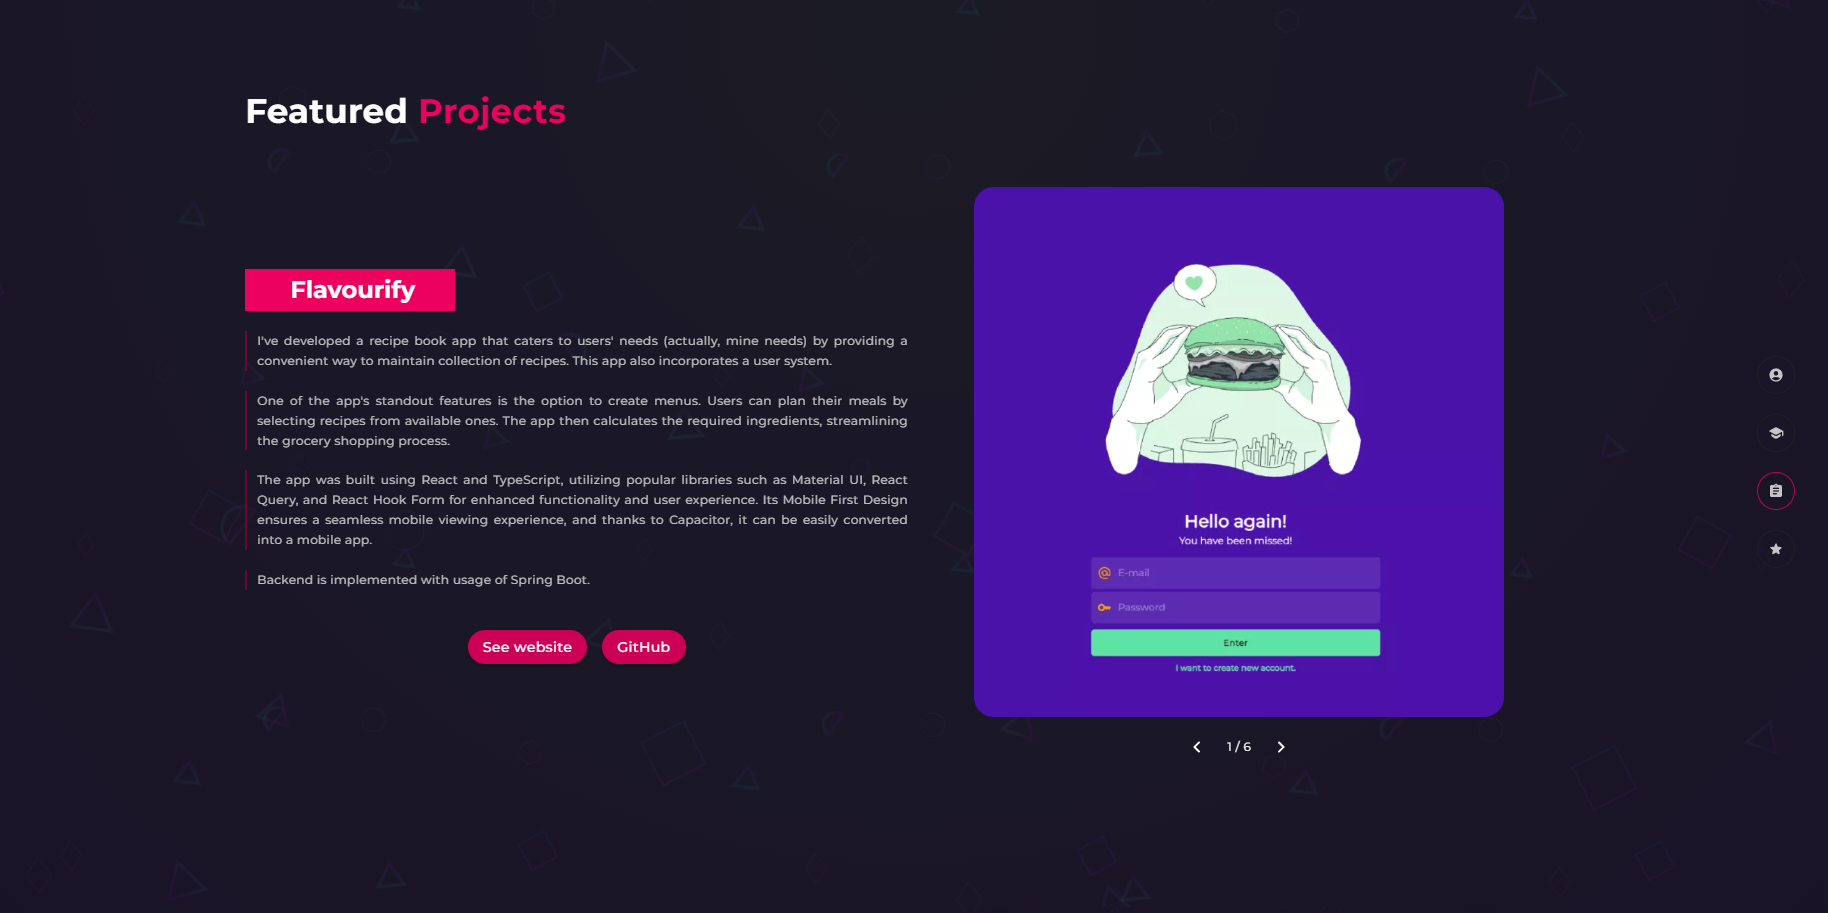
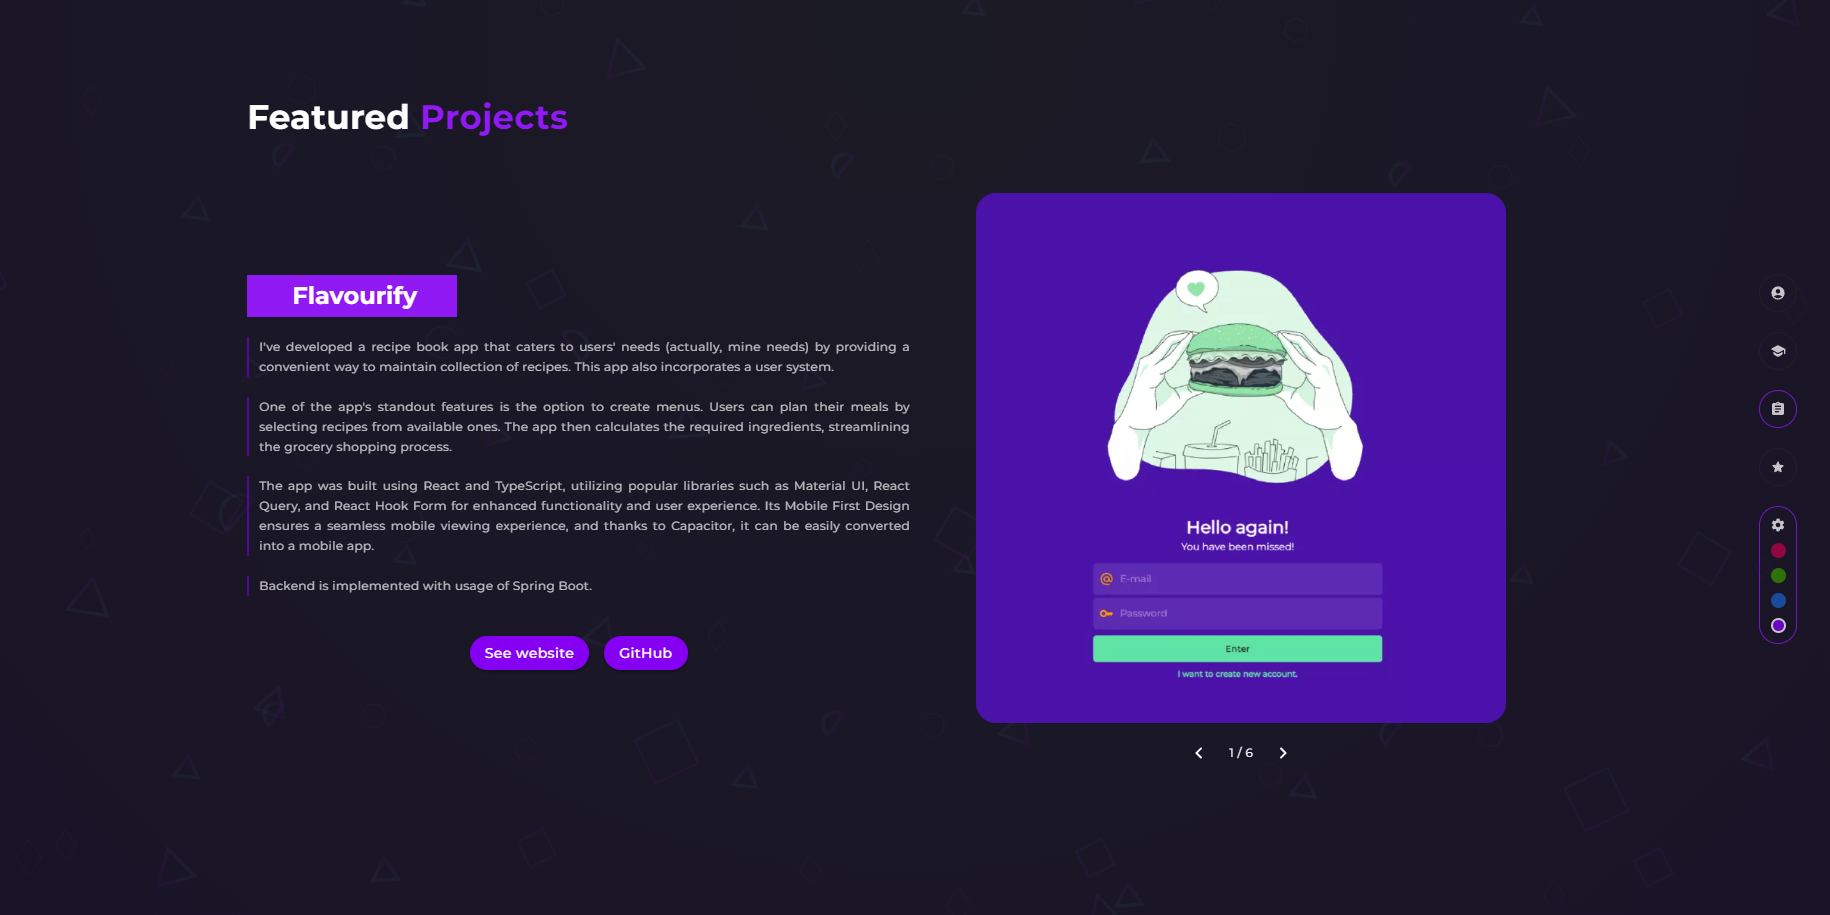
P-49: Added possibility to change primary colors

diff --git a/src/AppProvider.tsx b/src/AppProvider.tsx
@@ -1,11 +1,23 @@
 import { ReactJSXElement } from '@emotion/react/types/jsx-namespace';
-import { createTheme, darken, ThemeProvider } from '@mui/material';
+import { createTheme, ThemeProvider } from '@mui/material';
+import { updateGlobalColors } from './shared/utils/updateGlobalColors';
+import { COLORS } from './shared/constants/Colors';
+import { PrimaryColorContext } from './shared/contexts/PrimaryColorContext';
+import { memo, useEffect, useState } from 'react';
 
 interface AppProviderProps {
   children: ReactJSXElement | ReactJSXElement[];
 }
 
+const INITIAL_COLOR = COLORS[0];
+
 const AppProvider = ({ children }: AppProviderProps) => {
+  const [primaryColor, setPrimaryColor] = useState(INITIAL_COLOR);
+
+  useEffect(() => {
+    updateGlobalColors(INITIAL_COLOR);
+  }, []);
+
   const theme = createTheme({
     typography: {
       allVariants: {
@@ -39,17 +51,17 @@ const AppProvider = ({ children }: AppProviderProps) => {
             props: { variant: 'contained' },
             style: {
               color: '#ffffff',
-              backgroundColor: '#cc0055',
-              ':hover': { backgroundColor: darken('#cc0055', 0.15) }
+              backgroundColor: 'var(--primary)',
+              ':hover': { backgroundColor: 'var(--primary-dark)' }
             }
           },
           {
             props: { variant: 'outlined' },
             style: {
               color: '#ffffff',
-              borderColor: '#cc0055',
+              borderColor: 'var(--primary)',
               borderRadius: '100px',
-              ':hover': { borderColor: darken('#cc0055', 0.15) }
+              ':hover': { borderColor: 'var(--primary-dark)' }
             }
           }
         ]
@@ -57,7 +69,16 @@ const AppProvider = ({ children }: AppProviderProps) => {
     }
   });
 
-  return <ThemeProvider theme={theme}>{children}</ThemeProvider>;
+  const handleColorChange = (color: string) => {
+    updateGlobalColors(color);
+    setPrimaryColor(color);
+  };
+
+  return (
+    <PrimaryColorContext.Provider value={{ primaryColor, setPrimaryColor: handleColorChange }}>
+      <ThemeProvider theme={theme}>{children}</ThemeProvider>
+    </PrimaryColorContext.Provider>
+  );
 };
 
-export default AppProvider;
+export default memo(AppProvider);

diff --git a/src/components/navigation/navbar/color-panel/ColorPanel.tsx b/src/components/navigation/navbar/color-panel/ColorPanel.tsx
@@ -1,0 +1,53 @@
+import { Box, Collapse } from '@mui/material';
+import './ColorPanel.scss';
+import { ComponentProps, SyntheticEvent, useContext, useState } from 'react';
+import classNames from 'classnames';
+import { PrimaryColorContext } from '../../../../shared/contexts/PrimaryColorContext';
+import { Settings } from '@mui/icons-material';
+import { useWindowSize } from '../../../../shared/hooks/useWindowResize';
+import { MD_BREAKPOINT } from '../../../../pages/landing-page/LandingPage';
+
+interface ColorPanelProps extends ComponentProps<'div'> {
+  colors: string[];
+}
+
+const ColorPanel = ({ colors, className }: ColorPanelProps) => {
+  const [windowWidth] = useWindowSize();
+  const { primaryColor, setPrimaryColor } = useContext(PrimaryColorContext);
+  const [isColorPanelVisible, setIsColorPanelVisible] = useState(false);
+
+  const toggleColorPanelVisibility = () => {
+    setIsColorPanelVisible((prev) => !prev);
+  };
+
+  const handleColorSelection = (e: SyntheticEvent, color: string) => {
+    e.stopPropagation();
+    setPrimaryColor(color);
+  };
+
+  const buildColorSelectors = () => {
+    return colors.map((color) => (
+      <Box
+        className={classNames('color-selector', { active: primaryColor === color })}
+        key={color}
+        sx={{ backgroundColor: color }}
+        onClick={(e) => handleColorSelection(e, color)}
+      />
+    ));
+  };
+
+  return (
+    <Box
+      className={classNames('color-panel', { active: isColorPanelVisible }, className)}
+      onClick={toggleColorPanelVisibility}>
+      <Settings />
+      <Collapse
+        in={isColorPanelVisible}
+        orientation={windowWidth >= MD_BREAKPOINT ? 'vertical' : 'horizontal'}>
+        <Box className="colors">{buildColorSelectors()}</Box>
+      </Collapse>
+    </Box>
+  );
+};
+
+export default ColorPanel;

diff --git a/src/components/navigation/navbar/Navbar.tsx b/src/components/navigation/navbar/Navbar.tsx
@@ -1,9 +1,11 @@
 import { Box } from '@mui/material';
-import { RefObject } from 'react';
+import { memo, RefObject } from 'react';
 import './Navbar.scss';
 import { ReactJSXElement } from '@emotion/react/types/jsx-namespace';
 import { useScrollDirection } from '../../../shared/hooks/useScrollDirection';
 import classNames from 'classnames';
+import ColorPanel from './color-panel/ColorPanel';
+import { COLORS } from '../../../shared/constants/Colors';
 
 export interface NavbarItem {
   ref: RefObject<HTMLDivElement>;
@@ -42,8 +44,9 @@ const Navbar = ({ items, activeIndex }: NavbarProps) => {
       component="nav"
       className={classNames('navbar-container', { collapsable: isScrollingDown })}>
       {buildItems()}
+      <ColorPanel className="navbar-item" colors={COLORS} />
     </Box>
   );
 };
 
-export default Navbar;
+export default memo(Navbar);

diff --git a/src/components/content/project/project-container/ProjectContainer.scss b/src/components/content/project/project-container/ProjectContainer.scss
@@ -4,13 +4,13 @@
 .project-container {
   .project-name {
     margin-top: $spacing-xl;
-    border-left: 5px solid $primary-light;
+    border-left: 5px solid var(--primary-light);
     margin-bottom: $spacing-xl;
     width: fit-content;
-    background-image: linear-gradient(to right, $primary-light 50%, transparent 50%);
+    background-image: linear-gradient(to right, var(--primary-light) 50%, transparent 50%);
     background-repeat: no-repeat;
     background-size: 200% 100%;
-    transition: 0.5s ease;
+    transition: padding 0.5s ease, background-position 0.5s ease;
     padding: $spacing-s $spacing-xxl $spacing-s $spacing-xl;
     background-position: right;
     will-change: padding, background-position;

diff --git a/src/components/navigation/navbar/color-panel/ColorPanel.scss b/src/components/navigation/navbar/color-panel/ColorPanel.scss
@@ -1,0 +1,36 @@
+@import "src/styles/constants";
+@import "src/styles/mixins";
+
+.color-panel {
+  @include tile;
+  border-radius: 100px;
+  display: flex;
+
+  @media (min-width: $md-breakpoint) {
+    flex-direction: column;
+  }
+
+  .colors {
+    gap: $spacing-m;
+    display: flex;
+    align-items: center;
+    margin-left: $spacing-m;
+
+    @media (min-width: $md-breakpoint) {
+      flex-direction: column;
+      margin: $spacing-m 0 0;
+    }
+
+    .color-selector {
+      cursor: pointer;
+      width: 15px;
+      height: 15px;
+      border-radius: 100px;
+      box-sizing: border-box;
+
+      &.active {
+        border: 2px solid white;
+      }
+    }
+  }
+}

diff --git a/src/components/navigation/navbar/Navbar.scss b/src/components/navigation/navbar/Navbar.scss
@@ -12,8 +12,8 @@
   gap: $spacing-xl;
   padding: $spacing-s;
   border-radius: 50px;
-  background-color: rgba($primary-dark, 0.5);
   color: white;
+  background: rgba($gray, 0.75);
   transition: transform 0.3s;
 
   @media (max-width: calc(#{$md-breakpoint} - 1px)) {
@@ -46,17 +46,17 @@
     transition: 0.35s;
     border-color: $gray;
 
-    &.active {
-      border-color: $primary-light;
+    * {
+      font-size: $standard-font-size;
     }
 
-    * {
-      font-size: 1rem;
+    &.active {
+      border-color: var(--primary-light);
     }
 
     &:hover {
       opacity: 1;
-      border-color: $primary-light;
+      border-color: var(--primary-light);
     }
   }
 }

diff --git a/src/components/content/about-developer/AboutDeveloper.scss b/src/components/content/about-developer/AboutDeveloper.scss
@@ -46,7 +46,7 @@
     .text-container {
       .role {
         width: fit-content;
-        background-color: $primary-light;
+        background-color: var(--primary-light);
         padding: $spacing-s $spacing-l;
         border-radius: 50px;
         font-weight: 750;
@@ -63,8 +63,8 @@
     .picture {
       max-width: 200px;
       border-radius: 20px;
-      border: thin solid $primary-light;
-      background: $primary;
+      border: thin solid var(--primary-light);
+      background: var(--primary);
       margin-bottom: $spacing-m;
       filter: grayscale(0.25);
     }

diff --git a/src/components/content/experience/experience-list/experience-info/ExperienceInfo.scss b/src/components/content/experience/experience-list/experience-info/ExperienceInfo.scss
@@ -7,7 +7,7 @@
   &:hover {
     .experience-header {
       .date {
-        background: $primary-light;
+        background-color: var(--primary-light);
       }
     }
   }
@@ -21,12 +21,12 @@
       white-space: nowrap;
       font-weight: 650;
       height: fit-content;
-      transition: 0.5s;
+      transition: background-color 0.5s;
       width: fit-content;
       display: block;
       border-radius: 50px;
       padding: $spacing-s $spacing-l;
-      background: rgba($primary, 0.5);
+      background: var(--primary-semi-transparent);
     }
 
     .company-name {

diff --git a/src/shared/utils/updateGlobalColors.ts b/src/shared/utils/updateGlobalColors.ts
@@ -1,0 +1,9 @@
+import { alpha, darken, lighten } from '@mui/material';
+
+export const updateGlobalColors = (color: string) => {
+  document.documentElement.style.setProperty('--primary', color);
+  document.documentElement.style.setProperty('--primary-dark', darken(color, 0.2));
+  document.documentElement.style.setProperty('--primary-light', lighten(color, 0.1));
+  document.documentElement.style.setProperty('--primary-semi-transparent', alpha(color, 0.5));
+  document.documentElement.style.setProperty('--primary-transparent', alpha(color, 0.15));
+};

diff --git a/src/components/content/experience/experience-list/ExperienceContainer.scss b/src/components/content/experience/experience-list/ExperienceContainer.scss
@@ -4,7 +4,7 @@
   position: relative;
   display: flex;
   flex-direction: column;
-  border-left: 2px solid rgba($primary-dark, 0.75);
+  border-left: 2px solid var(--primary-semi-transparent);
   padding-left: $spacing-xl;
   gap: $spacing-xxl;
 
@@ -13,7 +13,7 @@
     left: 0;
     width: 10px;
     aspect-ratio: 1;
-    background: $primary-light;
+    background: var(--primary-light);
     border-radius: 10px;
     transform: translateX(calc(-50% - 1px)) translateY($spacing-l);
     box-sizing: border-box;

diff --git a/src/components/content/skills/skill-badge/SkillBadge.scss b/src/components/content/skills/skill-badge/SkillBadge.scss
@@ -9,7 +9,7 @@
   border-bottom: thin solid transparent;
 
   &:hover {
-    border-bottom: 3px solid $primary;
+    border-bottom: 3px solid var(--primary);
     transform: translateY(-$spacing-s);
   }
 
@@ -22,7 +22,7 @@
       width: 6px;
       aspect-ratio: 1;
       border-radius: 50px;
-      background: $primary;
+      background: var(--primary);
 
       &.highlighted {
         transform: scale(1.1);

diff --git a/src/components/content/skills/skills-container/SkillsContainer.scss b/src/components/content/skills/skills-container/SkillsContainer.scss
@@ -15,7 +15,7 @@
 
     &:hover {
       .skills-category-header {
-        background-color: rgba($primary, 0.9);
+        background-color:var(--primary);
       }
     }
 
@@ -27,7 +27,7 @@
       width: 100%;
       font-weight: 650;
       font-size: $s-font;
-      background-color: rgba($primary, 0.1);
+      background-color: var(--primary-transparent);
       transition: background-color 0.3s;
     }
 
